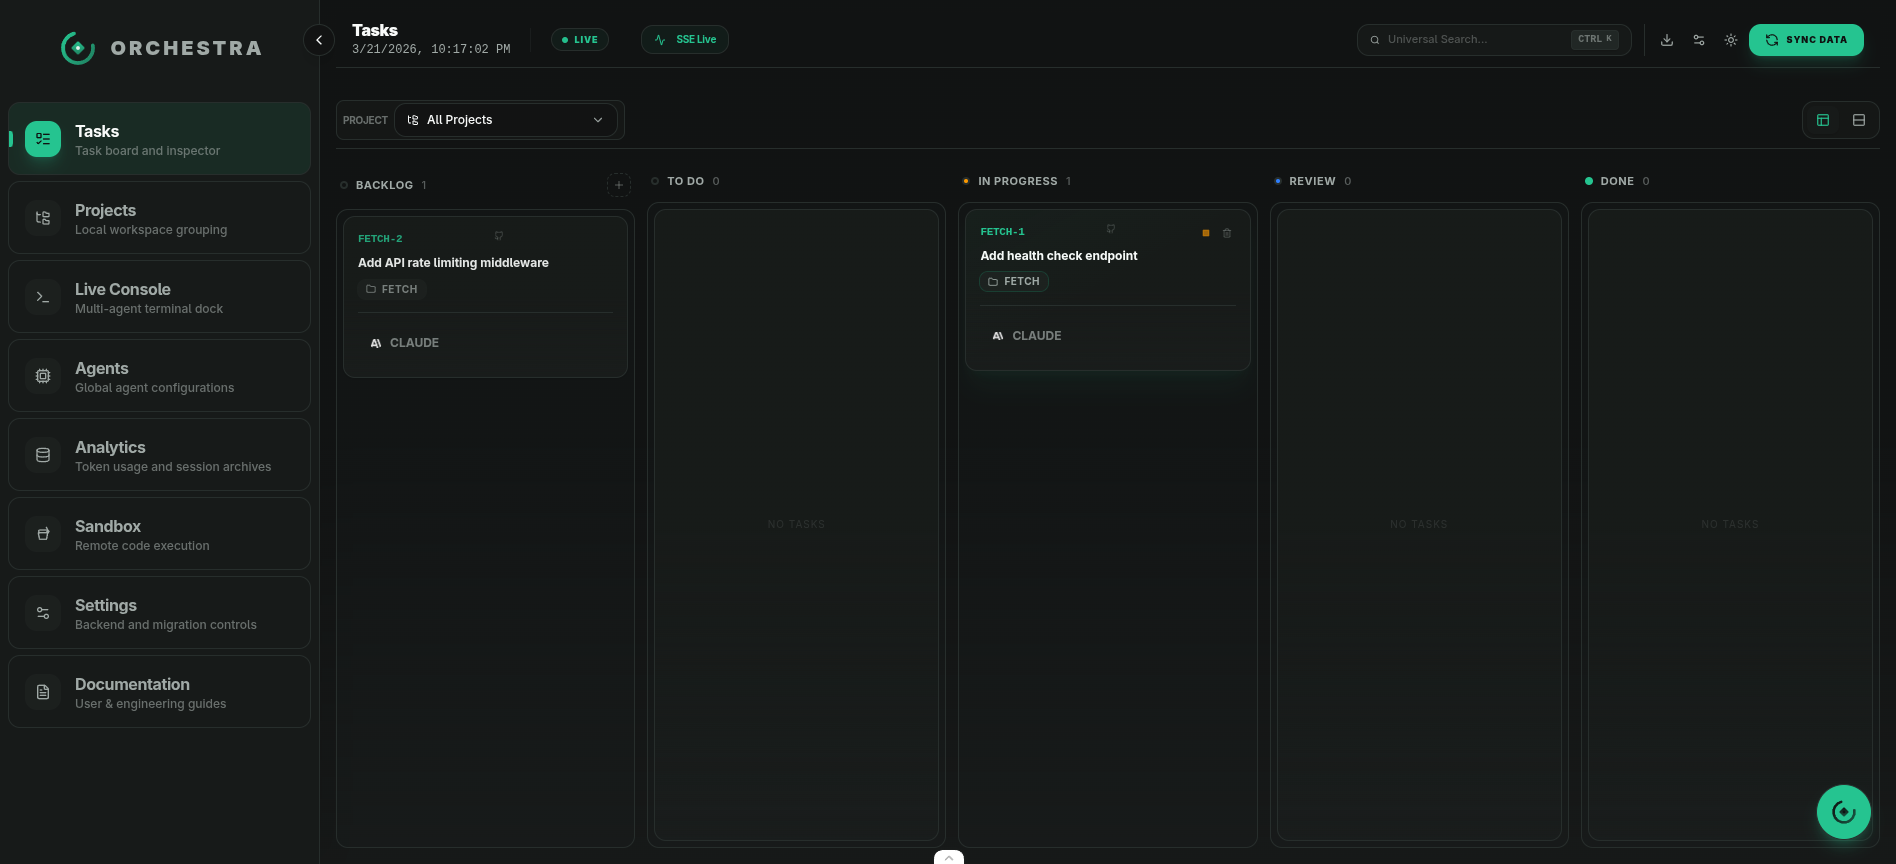
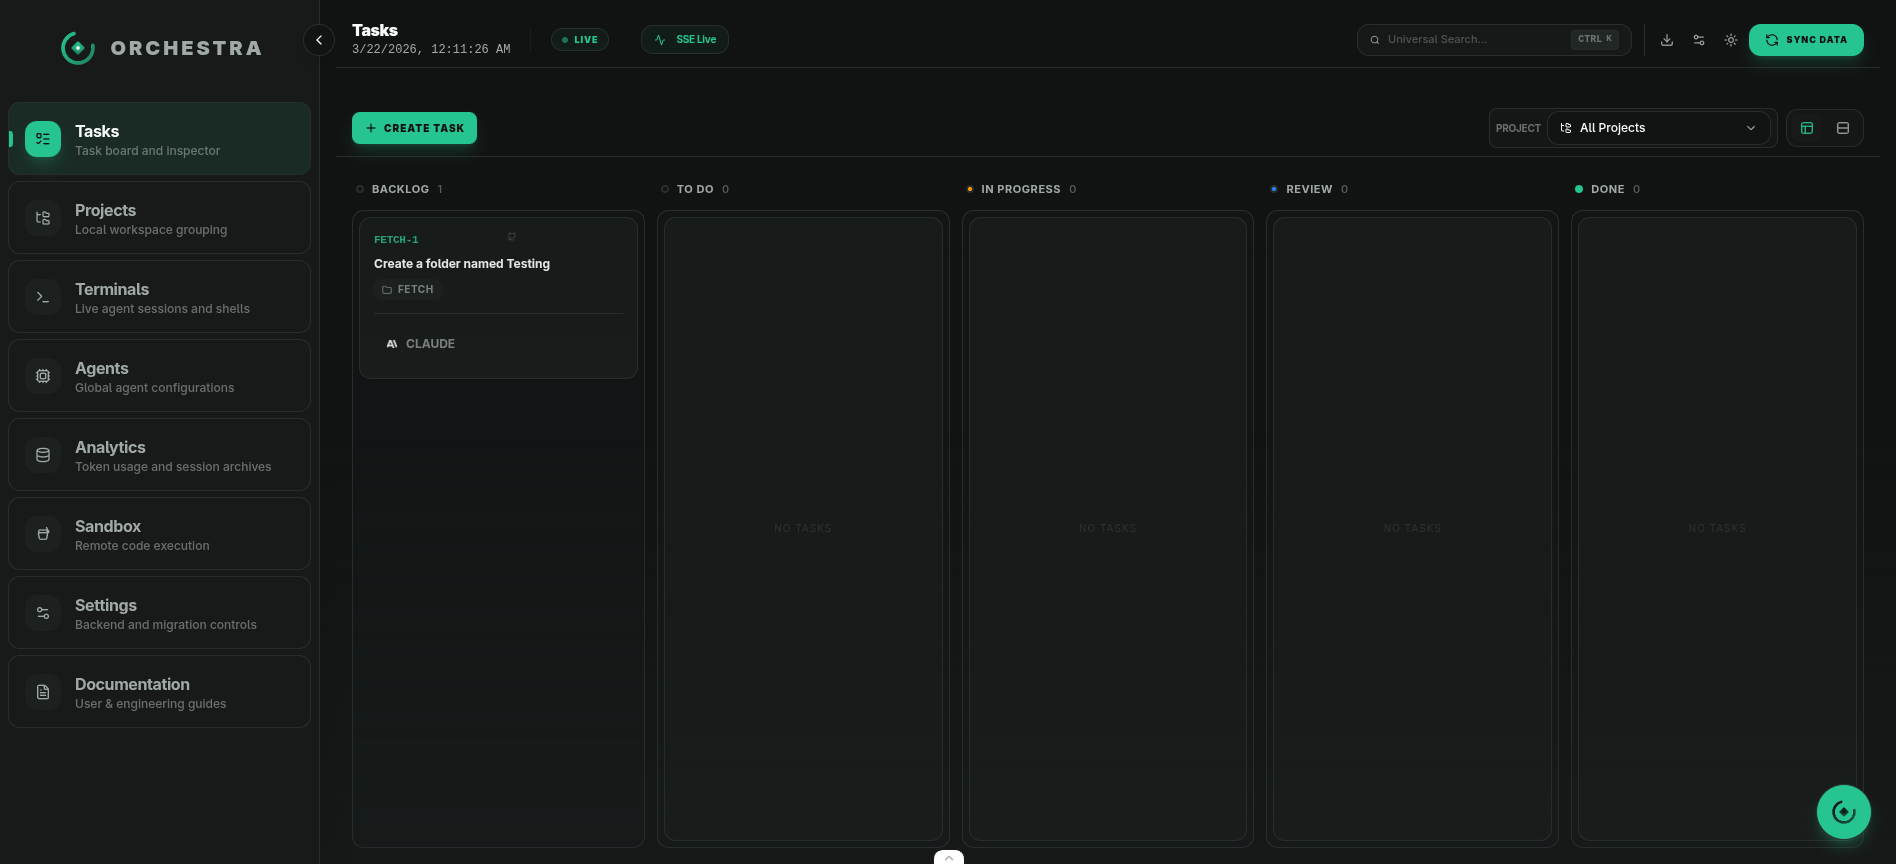
docs: complete E2E user guide with 17 screenshots
Full task lifecycle: Backlog → Todo (planning) → In Progress (executing) →
Review (approve/reject) → Done. Screenshots at every state showing the
inspector, board, session, and plan tabs.

diff --git a/docs/guide/orchestra-user-guide.md b/docs/guide/orchestra-user-guide.md
@@ -16,7 +16,7 @@ BACKLOG → TODO → IN PROGRESS → REVIEW → DONE
 
 ![Task Board](screenshots/01-task-board.png)
 
-The Kanban board has five columns. Tasks can only be created using the **Create Task** button in the toolbar — other columns show "NO TASKS" until work flows into them.
+The Kanban board has five columns:
 
 - **Backlog** — drafting area where new tasks land
 - **Todo** — agent creates a plan automatically
@@ -31,7 +31,7 @@ The toolbar has:
 
 ### Creating a Task
 
-![Create Task](screenshots/02-create-task.png)
+![Create Task](screenshots/02-create-task-filled.png)
 
 Click **Create Task** in the toolbar. All four fields are **required**:
 
@@ -46,59 +46,84 @@ The **CREATE** button stays disabled until all fields are filled. Tasks always s
 
 ![Task in Backlog](screenshots/03-task-in-backlog.png)
 
-Tasks in Backlog are fully editable drafts. You can change the title, description, agent, and project at any time.
+Tasks in Backlog are fully editable drafts. You can change the title, description, agent, and project.
 
-![Backlog Detail](screenshots/04-backlog-detail.png)
+![Backlog Inspector](screenshots/04-backlog-inspector.png)
 
 The inspector shows:
-- Editable title and description (with markdown support)
+- Editable title and description (with Edit button)
 - Agent and project selectors
 - Status: **"Draft — drag to Todo when ready"**
 - Auto-created GitHub issue link
 
-**Moving to Todo:** Drag the task card from Backlog to the Todo column. This requires all fields to be filled — if anything is missing, the card snaps back.
+**Moving to Todo:** Drag the task card from Backlog to Todo. Requires all fields filled — missing fields snap the card back.
 
 ### Todo — Planning Phase
 
-When a task enters Todo:
-1. The agent is automatically dispatched in **planning mode**
-2. It reads the description, explores the codebase, and creates a structured plan
-3. The agent stops — it does **not** write code yet
-4. Review the plan in the **Plan** tab
+![Todo Board](screenshots/05-todo-board.png)
 
-**Fields are locked** — title, description, agent, and project cannot be changed.
+When a task enters Todo, the agent is automatically dispatched in **planning mode**.
 
-Drag to **In Progress** when the plan looks good.
+![Todo Inspector](screenshots/06-todo-inspector.png)
+
+The inspector shows:
+- Status: **"Planning"** with blue dot
+- **STOP & RESET** button
+- All fields **locked** (read-only text, no edit button)
+
+![Todo Session](screenshots/08-todo-session.png)
+
+The agent explores the codebase and creates a structured plan. Review the plan in the **Plan** tab. When satisfied, drag to **In Progress**.
 
 ### In Progress — Execution Phase
 
-![In Progress - Locked](screenshots/05-inprogress-locked.png)
+![In Progress Board](screenshots/10-inprogress-board.png)
 
-When a task enters In Progress:
-1. The agent is dispatched to **execute the plan**
-2. Watch progress in the **Session** tab (live terminal output)
-3. See code changes in the **Changes** tab
-4. The agent automatically moves the task to **Review** when done
+The agent is dispatched to execute the plan.
+
+![In Progress Inspector](screenshots/11-inprogress-inspector.png)
 
 The inspector shows:
-- **Status: "Executing"** with amber pulse indicator
-- **"STOP & RESET"** button — kills the agent, clears plan and changes, returns to Backlog
-- All fields locked (read-only title, description, no selectors)
+- Status: **"Executing"** with amber dot
+- **STOP & RESET** button
+- All fields locked
+
+![In Progress Session](screenshots/12-inprogress-session.png)
+
+Watch the agent work in real time via the **Session** tab. The agent automatically moves the task to **Review** when complete.
 
 ### Review — Human QA
 
-When the agent completes, the task moves to Review automatically. You review:
-- **Plan** tab — what the agent intended to do
-- **Session** tab — what actually happened
-- **Changes** tab — the code diff
+![Review Board](screenshots/13-review-board.png)
 
-Two actions:
-- **Approve** → moves to Done
-- **Reject** → opens a feedback dialog. Describe what needs to change. The task returns to Todo with your feedback, the agent re-plans incorporating it, and the branch is preserved.
+The task is ready for human review.
+
+![Review Inspector](screenshots/14-review-inspector.png)
+
+The inspector shows:
+- Status: **"Awaiting Review"** with purple dot
+- **APPROVE** button (green) — moves to Done
+- **REJECT** button (red) — opens feedback dialog, sends back to Todo
+- **STOP & RESET** button
+- **MERGE & CLOSE** in header
+
+Review the work across all tabs:
+- **Plan** — what the agent intended
+- **Session** — what happened
+- **Changes** — the code diff
 
 ### Done — Completed
 
-The task is finished. All tabs remain viewable. The branch is preserved — go to the project's **Git** tab to create a PR when ready.
+![Done Inspector](screenshots/15-done-inspector.png)
+
+The inspector shows:
+- Status: **"Completed"** with green dot
+- **REOPEN** button in header
+- All tabs viewable
+
+![Done Board](screenshots/16-done-board.png)
+
+The branch is preserved — go to the project's **Git** tab to commit, push, and create a PR.
 
 ### Stop & Reset
 
@@ -106,11 +131,7 @@ Available from any active state (Todo, In Progress, Review). Pressing **STOP & R
 - Kills any running agent session
 - Clears the plan and changes
 - Returns the task to **Backlog** for editing
-- Requires confirmation: "This will clear the plan and all changes"
-
-### Deleting Tasks
-
-Click the delete button on any task card. If the task has a running agent session, it will be stopped automatically before deletion. The linked GitHub issue (if any) will also be closed.
+- Requires confirmation dialog
 
 ---
 
@@ -129,6 +150,28 @@ Click the delete button on any task card. If the task has a running agent sessio
 
 ---
 
+## Projects & Git
+
+Navigate to **Projects** to see all workspaces. Click **Add Project** to register a new directory.
+
+Each project has three tabs: **Tasks**, **Files**, **Git**.
+
+### Git Tab
+
+![Git Changes](screenshots/17-git-changes.png)
+
+The Git tab has three sub-tabs:
+
+**Changes** — two-panel layout:
+- Left: Stacked Unstaged/Staged file lists with drag-and-drop, commit bar at bottom
+- Right: Diff viewer (unified or split)
+
+**History** — scrollable commit timeline with search. Click a commit to view its diff.
+
+**GitHub** — issues and PRs from the connected repo. Create issues, PRs, review and merge.
+
+---
+
 ## Sidebar Navigation
 
 | Section | Description |
@@ -141,120 +184,6 @@ Click the delete button on any task card. If the task has a running agent sessio
 | **Sandbox** | Remote code execution |
 | **Settings** | Backend and migration controls |
 | **Documentation** | User and engineering guides |
-
----
-
-## Projects
-
-![Projects](screenshots/07-projects.png)
-
-The Projects view lists all registered workspaces. Click **Add Project** to register a new local directory.
-
-Each project row shows:
-- Project name and path
-- **GitHub Connected** badge (if linked)
-- Session count, token usage, and last activity
-
-Click a project to open it.
-
-### Project Detail
-
-![Project Detail](screenshots/08-project-detail.png)
-
-Each project has three tabs:
-
-- **Tasks** — project-scoped Kanban board (same workflow rules)
-- **Files** — browse the project's file tree
-- **Git** — full Git client with Changes, History, and GitHub sub-tabs
-
----
-
-## Git Tab
-
-### Changes
-
-![Git Changes](screenshots/09-git-changes.png)
-
-Two-panel layout:
-- **Left panel**: Stacked Unstaged/Staged file lists with drag-and-drop staging, commit bar at bottom
-- **Right panel**: Diff viewer for the selected file (unified or split view)
-
-**Staging files:**
-- Click a file to view its diff
-- Drag files between Unstaged and Staged
-- Use **Stage All** / **Unstage All** for bulk operations
-
-**Committing:**
-- Type a commit message (character count shown, warns at 72+)
-- Click **+ body** to add an extended description
-- Press **Commit** or **Ctrl+Enter**
-
-**Branch bar:**
-- Click the branch name to open the dropdown (local + remote branches)
-- Create, delete, or merge branches
-- **Fetch**, **Pull**, **Push** buttons with ahead/behind counts
-- **Stash** dropdown for saving/restoring changes
-
-![Git Diff](screenshots/10-git-diff.png)
-
-### History
-
-![Git History](screenshots/11-git-history.png)
-
-Scrollable commit timeline with search. Click a commit to view its diff. Each entry shows the commit message, short hash, author, and relative timestamp.
-
-### GitHub
-
-![Git GitHub](screenshots/12-git-github.png)
-
-Issues and pull requests from the connected repository:
-- **Issues tab** — view, create, and toggle issue state (open/close)
-- **PRs tab** — view PRs, click to open the review view with diff and merge options
-
-For projects without a GitHub connection, shows a **Create GitHub Repository** button.
-
-![Branch Dropdown](screenshots/13-branch-dropdown.png)
-
----
-
-## Agents
-
-![Agents](screenshots/06-agents.png)
-
-Configure AI agents (Claude, Codex, Gemini, OpenCode). Each agent card shows its configuration status and allows setting API keys and model preferences.
-
----
-
-## Terminals
-
-![Terminals](screenshots/15-live-console.png)
-
-Live agent sessions and interactive shells. Monitor active agent sessions in real time with terminal output.
-
----
-
-## Analytics
-
-![Analytics](screenshots/16-analytics.png)
-
-Token usage and cost tracking:
-- **Total input/output tokens** with estimated USD cost
-- **Per-provider cost breakdown** chart
-- **Per-project token usage** chart
-- **Cost over time** trend
-- **Session archive** — last 50 sessions with provider, model, tokens, cost, and date
-
----
-
-## Embedded Agent
-
-Press **Ctrl+.** (or click the floating button) to open the Orchestra Agent panel. This AI assistant can:
-- Create, update, and delete tasks
-- Search and list tasks across projects
-- Execute git operations
-- Answer questions about your projects
-
-Watch mode notifications show alerts when agents complete, fail, or stall — with action buttons to view the issue or review the diff.
 
 ---
 
@@ -271,10 +200,11 @@ Watch mode notifications show alerts when agents complete, fail, or stall — wi
 
 ## Getting Started
 
-1. **Add a project** — go to Projects → Add Project and select a local directory
-2. **Connect GitHub** — click the GitHub button on a project to authenticate
-3. **Create a task** — click Create Task, fill in all fields, assign an agent
-4. **Drag to Todo** — the agent auto-plans
-5. **Drag to In Progress** — the agent executes
-6. **Review** — approve or reject with feedback
-7. **Ship it** — go to the Git tab to create a PR
+1. **Add a project** — go to Projects → Add Project
+2. **Connect GitHub** — click the GitHub button to authenticate
+3. **Create a task** — click Create Task, fill all fields, assign an agent
+4. **Drag to Todo** — agent auto-plans
+5. **Review the plan** — check the Plan tab
+6. **Drag to In Progress** — agent executes
+7. **Review** — approve or reject with feedback
+8. **Ship it** — go to Git tab to commit and create a PR